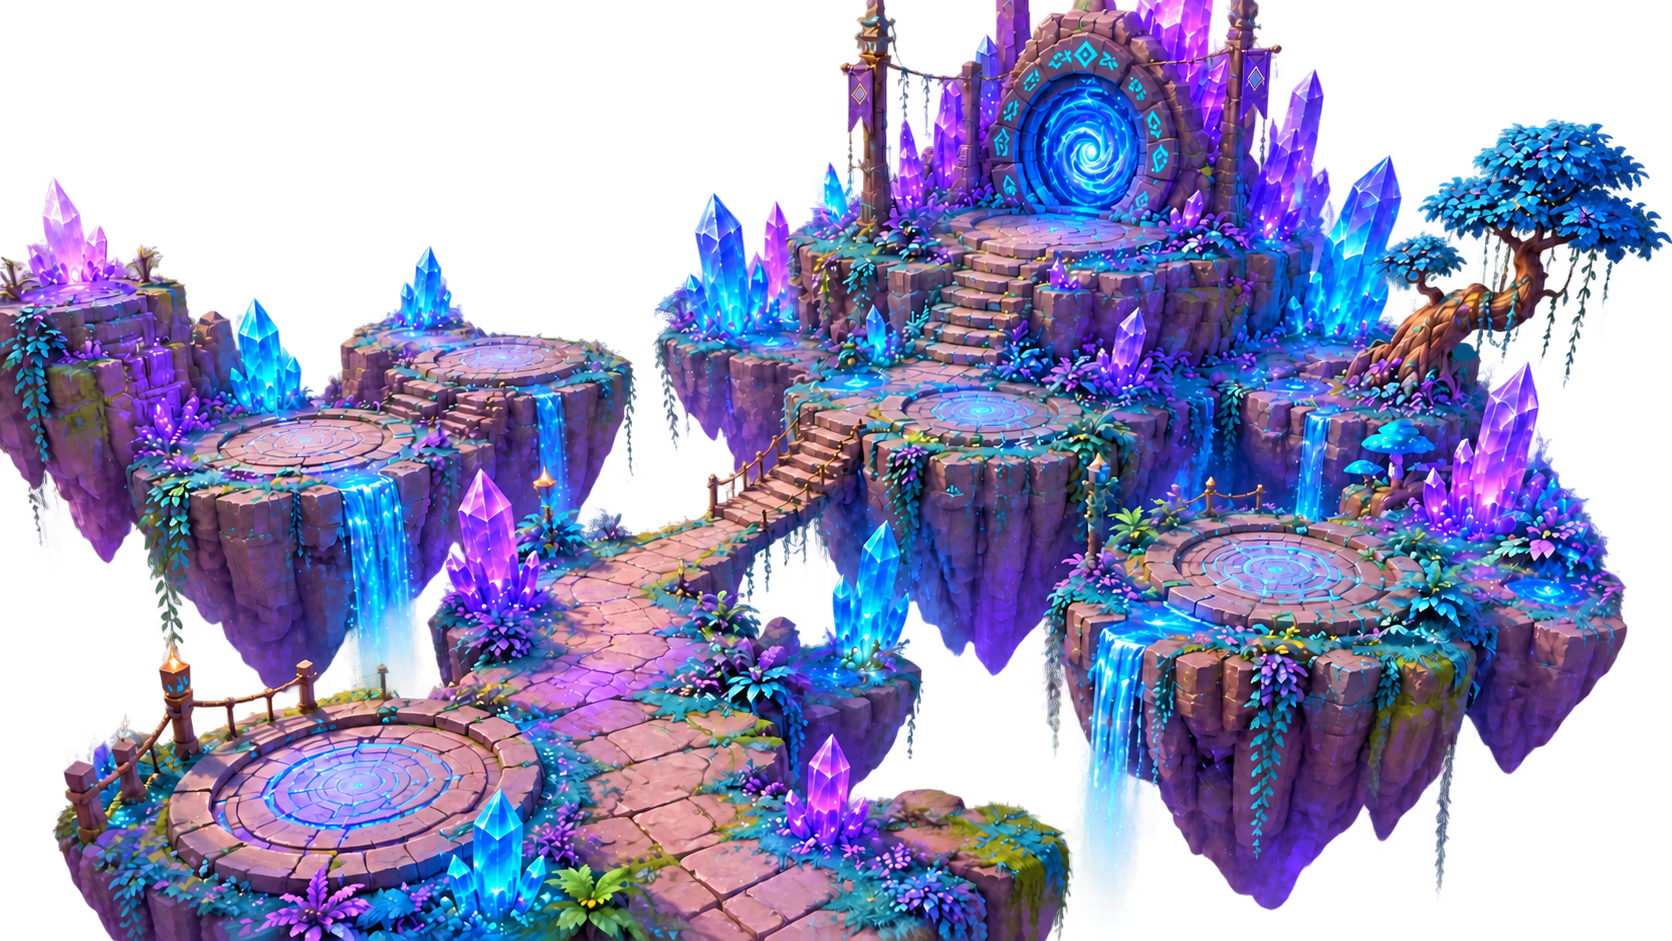
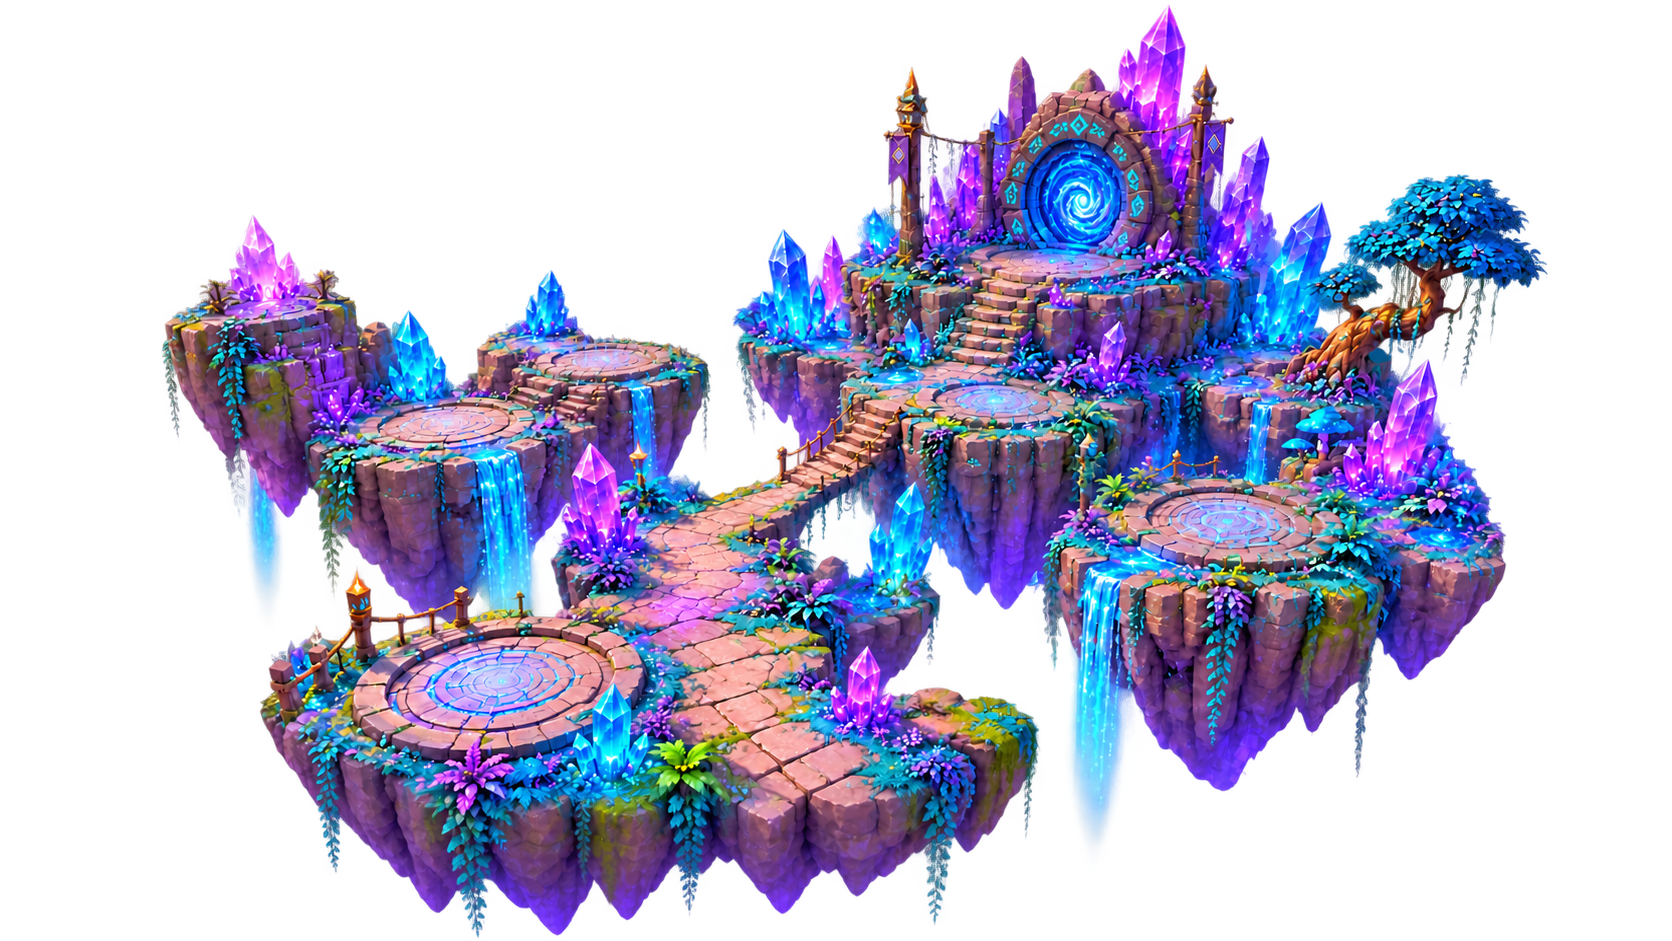
revert(island6): volver a contain, arte nuevo esta completo
La lamina original se pinto a sangre, sin margen: por eso se agrego el modo
cover en el commit anterior. La lamina reemplazada ya no tiene ese corte
-- es una isla completa, flotando con base en punta -- asi que puede volver
al contain normal, que la deja mas chica cuando el aspecto no calza en vez
de forzar pantalla completa.

Se saca el flag cover de island6 en ISLAND_ART y se reimporta con el
island-source.png nuevo (1672x941, sin damero, sin problema de resolucion).
La infraestructura de cover queda en el codigo, sin usar por ninguna isla:
es generica y documentada en CLAUDE.md 6.3 para el dia que haga falta de
verdad.

diff --git a/src/utils/assets.ts b/src/utils/assets.ts
@@ -102,7 +102,7 @@ const ISLAND_ART: Record<string, IslandArtEntry> = {
   island3:  { split: true },               // mármol y oro, pasto y pétalos
   island4:  { split: true },               // piedra con musgo y hojas
   island5:  { split: true },               // piedra con pasto y cubos de hielo
-  island6:  { split: true, cover: true },  // portal de cristal: runas y drusas — dibujada a sangre, ver `cover` arriba
+  island6:  { split: true },               // portal de cristal: runas y drusas
   island7:  {},               // jardín: cerezo en flor
   island8:  {},               // reloj helado: hielo, bronce y nieve
   island9:  {},               // otoño: barro cocido y hojas de arce

diff --git a/CLAUDE.md b/CLAUDE.md
@@ -416,19 +416,22 @@ the combined art's aspect ratio to the island layer's. Every `x/y` in that
 island's `levelPositions.ts` entry has to be placed again. Split the art
 *before* positioning the nodes, never after.
 
-**Some art is drawn to bleed, not to float.** `.island-stage` normally uses the
-CSS form of `contain` (`width: min(100cqw, 100cqh * var(--art-ar))`): the art
-always enters whole, with letterbox bands if the aspect ratio doesn't match.
-Island 6 is painted edge-to-edge on purpose — its border is a hard cut that
-assumes more scene continues off-camera, with no breathing margin — so shrinking
-it to fit would expose that cut. `{ cover: true }` on its row in `ISLAND_ART`
-switches the stage to `.island-stage--cover`, the same formula with `max()`
-instead of `min()`: the stage always fills the viewport and *never* shrinks
-below it, cropping whatever doesn't fit. `islandArt(worldId).cover` carries the
-flag to `IslandDetailPage`, which toggles the class. Level nodes still measure
-in % of that box, so at some aspect ratios a node can land outside the visible
-crop — expected with this mode, not a bug. Use it only for art drawn with that
-intent; every other island should stay `contain`.
+**Some art is drawn to bleed, not to float — an escape hatch, not in use today.**
+`.island-stage` normally uses the CSS form of `contain`
+(`width: min(100cqw, 100cqh * var(--art-ar))`): the art always enters whole,
+with letterbox bands if the aspect ratio doesn't match. If an island's border is
+ever a hard cut that assumes more scene continues off-camera — no breathing
+margin, meant to bleed — shrinking it to fit would expose that cut. For that
+case only, `{ cover: true }` on its row in `ISLAND_ART` switches the stage to
+`.island-stage--cover`, the same formula with `max()` instead of `min()`: the
+stage always fills the viewport and *never* shrinks below it, cropping whatever
+doesn't fit. `islandArt(worldId).cover` carries the flag to `IslandDetailPage`,
+which toggles the class. Level nodes still measure in % of that box, so at some
+aspect ratios a node can land outside the visible crop — expected with this
+mode, not a bug. Island 6 briefly used it while its art had that hard cut; a
+redrawn, complete version replaced it and it went back to `contain`. Reach for
+`cover` only when an island's art is genuinely drawn that way — a complete
+island, however busy, still wants `contain`.
 
 **To split one**, drop two sources into `Images/islands/islandN/` and run the
 importer:
